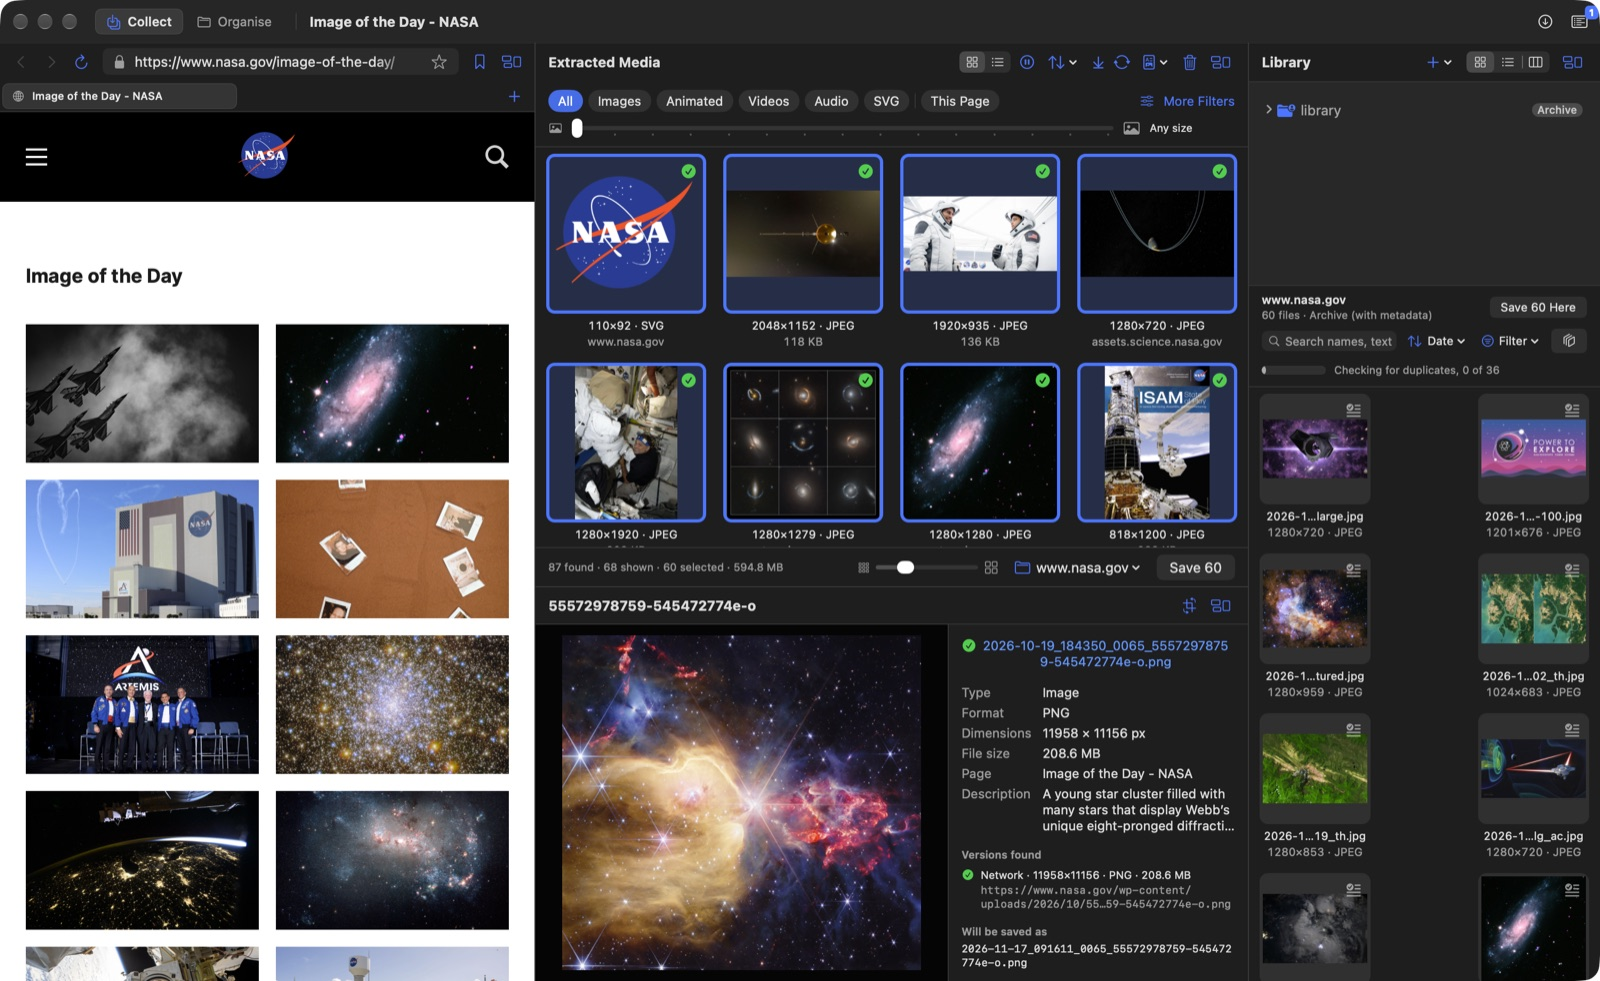
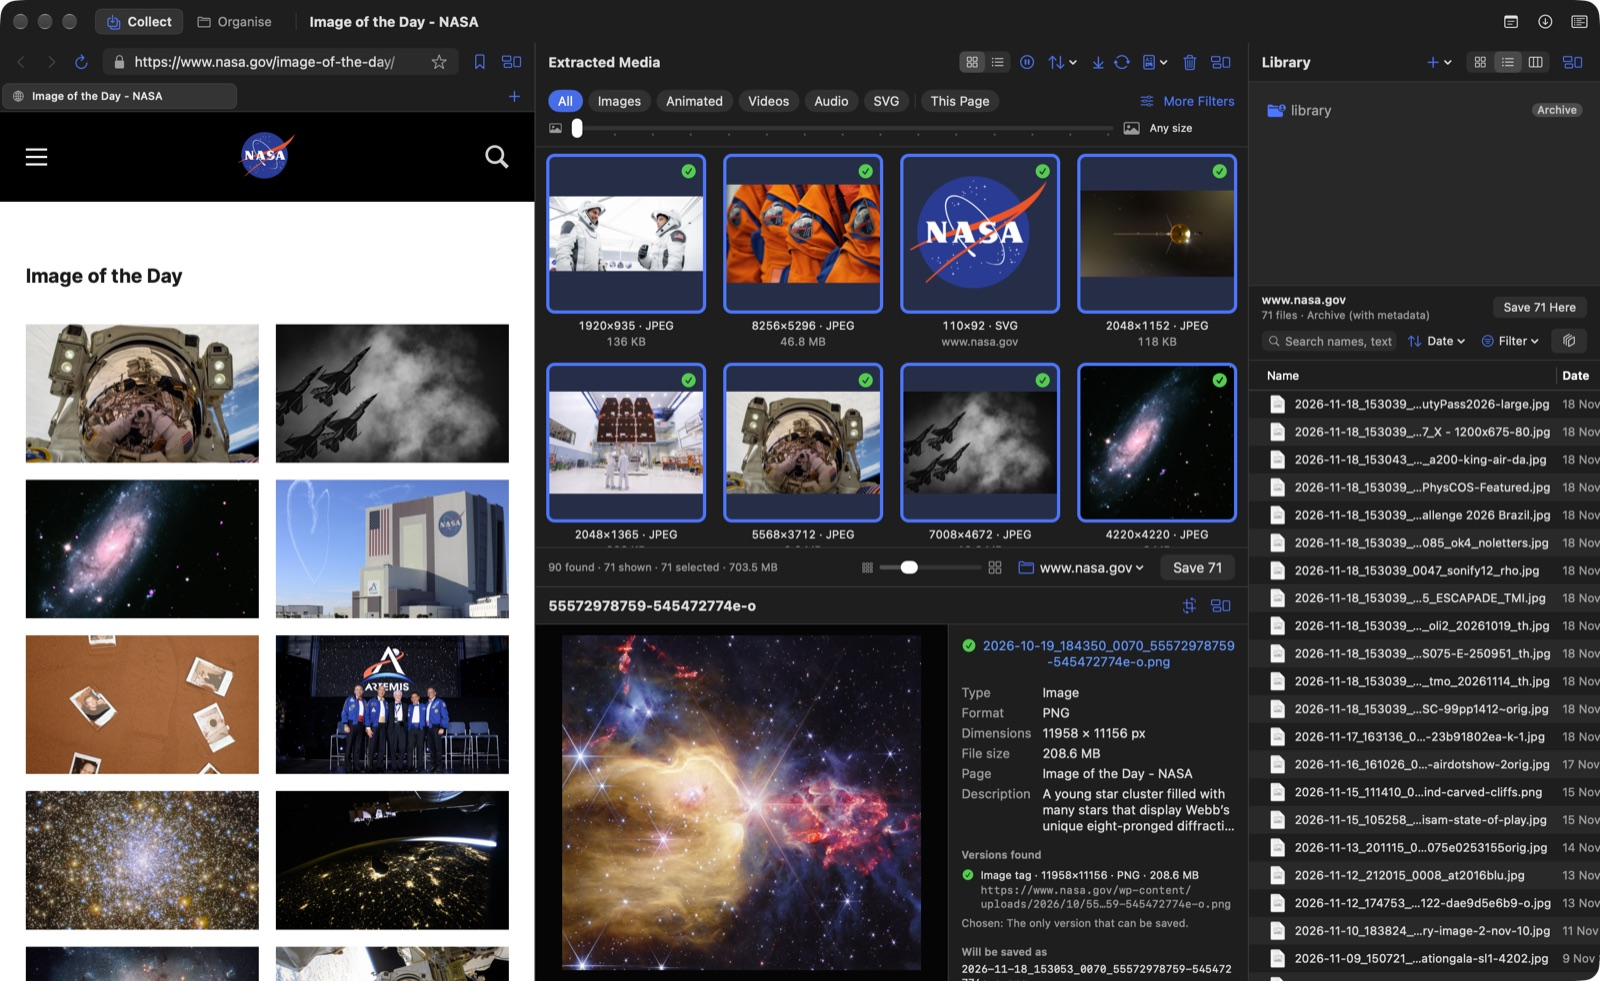
Refresh README screenshots for 1.8
Collect, Downloads (with Save As), List and Column views retaken from the
public NASA page and a public video; a Profile view image added from the
self-test's folder. Only MediaPull's own window is captured.

diff --git a/README.md b/README.md
@@ -22,9 +22,11 @@
 
 | Organise | Downloads |
 |---|---|
-| ![Organise: sort a folder by subject](docs/images/organise.jpg) | ![Downloads: choose a video's format and resolution](docs/images/downloads.jpg) |
+| ![Organise: sort a folder by subject](docs/images/organise.jpg) | ![Downloads: choose a video's format and resolution, then Download or Save As](docs/images/downloads.jpg) |
 | **List view** | **Column view** |
 | ![List view: sortable columns and folders that open in place](docs/images/list-view.jpg) | ![Column view: folders in columns with a preview of the chosen file](docs/images/column-view.jpg) |
+| **Profile view** | |
+| ![Profile view: a saved account with its highlights, pinned post and Reels, shown from a test folder](docs/images/profile.jpg) | |
 
 ## Install
 
